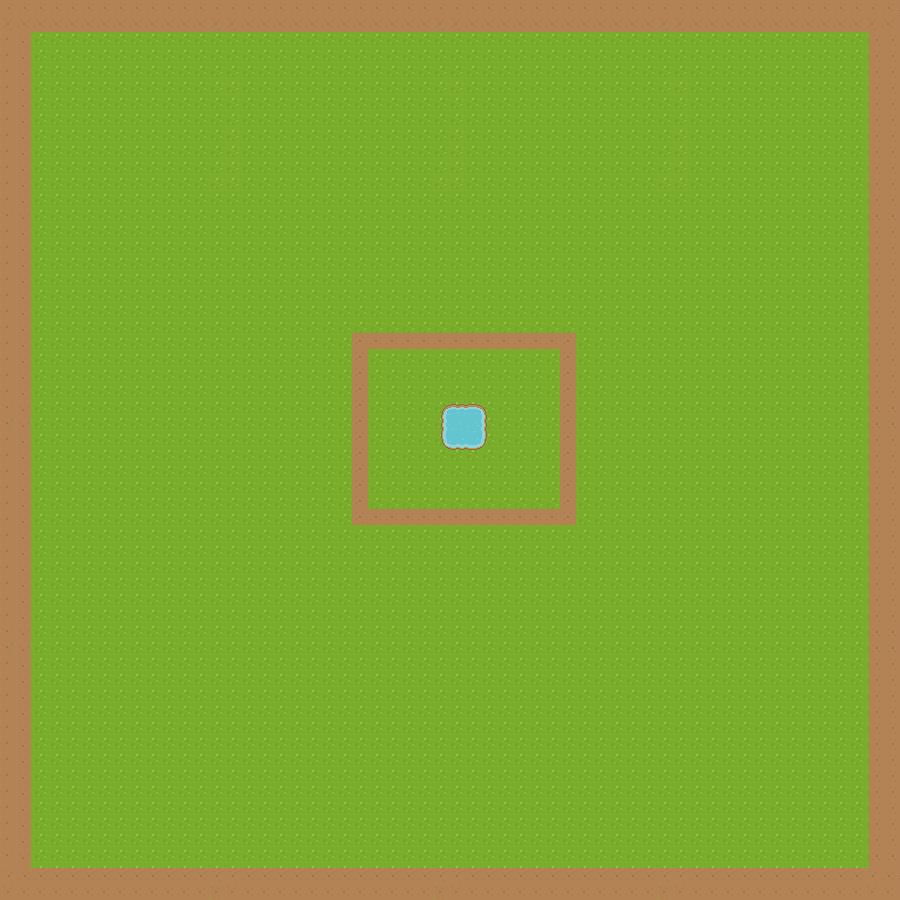
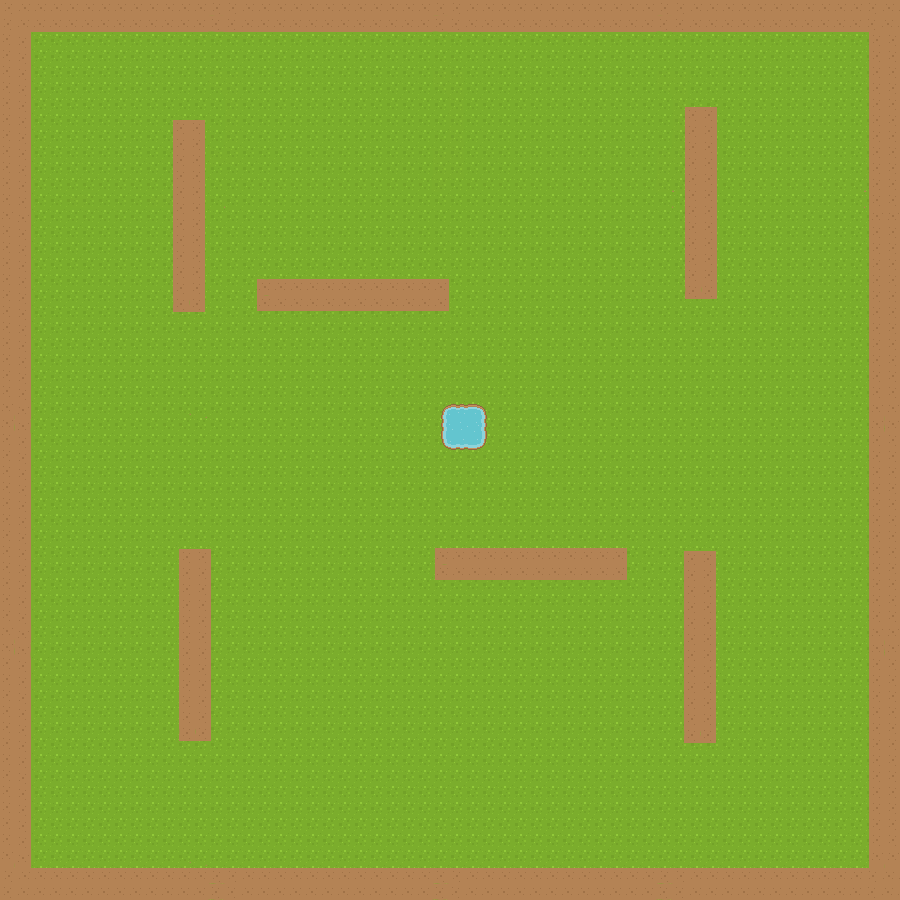
increase bullet speed, fix hotkey saving, update readme

diff --git a/client/js/World.js b/client/js/World.js
@@ -7,6 +7,12 @@ World.data = [
 	['x', ' ', ' ', ' ', ' ', ' ', ' ', ' ', ' ', ' ', ' ', ' ', ' ', ' ', ' ', ' ', ' ', ' ', ' ', ' ', ' ', ' ', ' ', ' ', ' ', ' ', ' ', ' ', ' ', 'x', ],
 	['x', ' ', ' ', ' ', ' ', ' ', ' ', ' ', ' ', ' ', ' ', ' ', ' ', ' ', ' ', ' ', ' ', ' ', ' ', ' ', ' ', ' ', ' ', ' ', ' ', ' ', ' ', ' ', ' ', 'x', ],
 	['x', ' ', ' ', ' ', ' ', ' ', ' ', ' ', ' ', ' ', ' ', ' ', ' ', ' ', ' ', ' ', ' ', ' ', ' ', ' ', ' ', ' ', ' ', ' ', ' ', ' ', ' ', ' ', ' ', 'x', ],
+	['x', ' ', ' ', ' ', ' ', ' ', 'x', ' ', ' ', ' ', ' ', ' ', ' ', ' ', ' ', ' ', ' ', ' ', ' ', ' ', ' ', ' ', ' ', 'x', ' ', ' ', ' ', ' ', ' ', 'x', ],
+	['x', ' ', ' ', ' ', ' ', ' ', 'x', ' ', ' ', ' ', ' ', ' ', ' ', ' ', ' ', ' ', ' ', ' ', ' ', ' ', ' ', ' ', ' ', 'x', ' ', ' ', ' ', ' ', ' ', 'x', ],
+	['x', ' ', ' ', ' ', ' ', ' ', 'x', ' ', ' ', ' ', ' ', ' ', ' ', ' ', ' ', ' ', ' ', ' ', ' ', ' ', ' ', ' ', ' ', 'x', ' ', ' ', ' ', ' ', ' ', 'x', ],
+	['x', ' ', ' ', ' ', ' ', ' ', 'x', ' ', ' ', ' ', ' ', ' ', ' ', ' ', ' ', ' ', ' ', ' ', ' ', ' ', ' ', ' ', ' ', 'x', ' ', ' ', ' ', ' ', ' ', 'x', ],
+	['x', ' ', ' ', ' ', ' ', ' ', 'x', ' ', ' ', ' ', ' ', ' ', ' ', ' ', ' ', ' ', ' ', ' ', ' ', ' ', ' ', ' ', ' ', 'x', ' ', ' ', ' ', ' ', ' ', 'x', ],
+	['x', ' ', ' ', ' ', ' ', ' ', 'x', ' ', ' ', 'x', 'x', 'x', 'x', 'x', 'x', ' ', ' ', ' ', ' ', ' ', ' ', ' ', ' ', 'x', ' ', ' ', ' ', ' ', ' ', 'x', ],
 	['x', ' ', ' ', ' ', ' ', ' ', ' ', ' ', ' ', ' ', ' ', ' ', ' ', ' ', ' ', ' ', ' ', ' ', ' ', ' ', ' ', ' ', ' ', ' ', ' ', ' ', ' ', ' ', ' ', 'x', ],
 	['x', ' ', ' ', ' ', ' ', ' ', ' ', ' ', ' ', ' ', ' ', ' ', ' ', ' ', ' ', ' ', ' ', ' ', ' ', ' ', ' ', ' ', ' ', ' ', ' ', ' ', ' ', ' ', ' ', 'x', ],
 	['x', ' ', ' ', ' ', ' ', ' ', ' ', ' ', ' ', ' ', ' ', ' ', ' ', ' ', ' ', ' ', ' ', ' ', ' ', ' ', ' ', ' ', ' ', ' ', ' ', ' ', ' ', ' ', ' ', 'x', ],
@@ -15,19 +21,13 @@ World.data = [
 	['x', ' ', ' ', ' ', ' ', ' ', ' ', ' ', ' ', ' ', ' ', ' ', ' ', ' ', ' ', ' ', ' ', ' ', ' ', ' ', ' ', ' ', ' ', ' ', ' ', ' ', ' ', ' ', ' ', 'x', ],
 	['x', ' ', ' ', ' ', ' ', ' ', ' ', ' ', ' ', ' ', ' ', ' ', ' ', ' ', ' ', ' ', ' ', ' ', ' ', ' ', ' ', ' ', ' ', ' ', ' ', ' ', ' ', ' ', ' ', 'x', ],
 	['x', ' ', ' ', ' ', ' ', ' ', ' ', ' ', ' ', ' ', ' ', ' ', ' ', ' ', ' ', ' ', ' ', ' ', ' ', ' ', ' ', ' ', ' ', ' ', ' ', ' ', ' ', ' ', ' ', 'x', ],
-	['x', ' ', ' ', ' ', ' ', ' ', ' ', ' ', ' ', ' ', ' ', ' ', ' ', ' ', ' ', ' ', ' ', ' ', ' ', ' ', ' ', ' ', ' ', ' ', ' ', ' ', ' ', ' ', ' ', 'x', ],
-	['x', ' ', ' ', ' ', ' ', ' ', ' ', ' ', ' ', ' ', ' ', ' ', ' ', ' ', ' ', ' ', ' ', ' ', ' ', ' ', ' ', ' ', ' ', ' ', ' ', ' ', ' ', ' ', ' ', 'x', ],
-	['x', ' ', ' ', ' ', ' ', ' ', ' ', ' ', ' ', ' ', ' ', ' ', ' ', ' ', ' ', ' ', ' ', ' ', ' ', ' ', ' ', ' ', ' ', ' ', ' ', ' ', ' ', ' ', ' ', 'x', ],
-	['x', ' ', ' ', ' ', ' ', ' ', ' ', ' ', ' ', ' ', ' ', ' ', ' ', ' ', ' ', ' ', ' ', ' ', ' ', ' ', ' ', ' ', ' ', ' ', ' ', ' ', ' ', ' ', ' ', 'x', ],
-	['x', ' ', ' ', ' ', ' ', ' ', ' ', ' ', ' ', ' ', ' ', ' ', ' ', ' ', ' ', ' ', ' ', ' ', ' ', ' ', ' ', ' ', ' ', ' ', ' ', ' ', ' ', ' ', ' ', 'x', ],
-	['x', ' ', ' ', ' ', ' ', ' ', ' ', ' ', ' ', ' ', ' ', ' ', ' ', ' ', ' ', ' ', ' ', ' ', ' ', ' ', ' ', ' ', ' ', ' ', ' ', ' ', ' ', ' ', ' ', 'x', ],
-	['x', ' ', ' ', ' ', ' ', ' ', ' ', ' ', ' ', ' ', ' ', ' ', ' ', ' ', ' ', ' ', ' ', ' ', ' ', ' ', ' ', ' ', ' ', ' ', ' ', ' ', ' ', ' ', ' ', 'x', ],
-	['x', ' ', ' ', ' ', ' ', ' ', ' ', ' ', ' ', ' ', ' ', ' ', ' ', ' ', ' ', ' ', ' ', ' ', ' ', ' ', ' ', ' ', ' ', ' ', ' ', ' ', ' ', ' ', ' ', 'x', ],
-	['x', ' ', ' ', ' ', ' ', ' ', ' ', ' ', ' ', ' ', ' ', ' ', ' ', ' ', ' ', ' ', ' ', ' ', ' ', ' ', ' ', ' ', ' ', ' ', ' ', ' ', ' ', ' ', ' ', 'x', ],
-	['x', ' ', ' ', ' ', ' ', ' ', ' ', ' ', ' ', ' ', ' ', ' ', ' ', ' ', ' ', ' ', ' ', ' ', ' ', ' ', ' ', ' ', ' ', ' ', ' ', ' ', ' ', ' ', ' ', 'x', ],
-	['x', ' ', ' ', ' ', ' ', ' ', ' ', ' ', ' ', ' ', ' ', ' ', ' ', ' ', ' ', ' ', ' ', ' ', ' ', ' ', ' ', ' ', ' ', ' ', ' ', ' ', ' ', ' ', ' ', 'x', ],
-	['x', ' ', ' ', ' ', ' ', ' ', ' ', ' ', ' ', ' ', ' ', ' ', ' ', ' ', ' ', ' ', ' ', ' ', ' ', ' ', ' ', ' ', ' ', ' ', ' ', ' ', ' ', ' ', ' ', 'x', ],
-	['x', ' ', ' ', ' ', ' ', ' ', ' ', ' ', ' ', ' ', ' ', ' ', ' ', ' ', ' ', ' ', ' ', ' ', ' ', ' ', ' ', ' ', ' ', ' ', ' ', ' ', ' ', ' ', ' ', 'x', ],
+	['x', ' ', ' ', ' ', ' ', ' ', 'x', ' ', ' ', ' ', ' ', ' ', ' ', ' ', ' ', 'x', 'x', 'x', 'x', 'x', 'x', ' ', ' ', ' ', ' ', ' ', ' ', ' ', ' ', 'x', ],
+	['x', ' ', ' ', ' ', ' ', ' ', 'x', ' ', ' ', ' ', ' ', ' ', ' ', ' ', ' ', ' ', ' ', ' ', ' ', ' ', ' ', ' ', ' ', 'x', ' ', ' ', ' ', ' ', ' ', 'x', ],
+	['x', ' ', ' ', ' ', ' ', ' ', 'x', ' ', ' ', ' ', ' ', ' ', ' ', ' ', ' ', ' ', ' ', ' ', ' ', ' ', ' ', ' ', ' ', 'x', ' ', ' ', ' ', ' ', ' ', 'x', ],
+	['x', ' ', ' ', ' ', ' ', ' ', 'x', ' ', ' ', ' ', ' ', ' ', ' ', ' ', ' ', ' ', ' ', ' ', ' ', ' ', ' ', ' ', ' ', 'x', ' ', ' ', ' ', ' ', ' ', 'x', ],
+	['x', ' ', ' ', ' ', ' ', ' ', 'x', ' ', ' ', ' ', ' ', ' ', ' ', ' ', ' ', ' ', ' ', ' ', ' ', ' ', ' ', ' ', ' ', 'x', ' ', ' ', ' ', ' ', ' ', 'x', ],
+	['x', ' ', ' ', ' ', ' ', ' ', 'x', ' ', ' ', ' ', ' ', ' ', ' ', ' ', ' ', ' ', ' ', ' ', ' ', ' ', ' ', ' ', ' ', 'x', ' ', ' ', ' ', ' ', ' ', 'x', ],
+	['x', ' ', ' ', ' ', ' ', ' ', 'x', ' ', ' ', ' ', ' ', ' ', ' ', ' ', ' ', ' ', ' ', ' ', ' ', ' ', ' ', ' ', ' ', 'x', ' ', ' ', ' ', ' ', ' ', 'x', ],
 	['x', ' ', ' ', ' ', ' ', ' ', ' ', ' ', ' ', ' ', ' ', ' ', ' ', ' ', ' ', ' ', ' ', ' ', ' ', ' ', ' ', ' ', ' ', ' ', ' ', ' ', ' ', ' ', ' ', 'x', ],
 	['x', ' ', ' ', ' ', ' ', ' ', ' ', ' ', ' ', ' ', ' ', ' ', ' ', ' ', ' ', ' ', ' ', ' ', ' ', ' ', ' ', ' ', ' ', ' ', ' ', ' ', ' ', ' ', ' ', 'x', ],
 	['x', ' ', ' ', ' ', ' ', ' ', ' ', ' ', ' ', ' ', ' ', ' ', ' ', ' ', ' ', ' ', ' ', ' ', ' ', ' ', ' ', ' ', ' ', ' ', ' ', ' ', ' ', ' ', ' ', 'x', ],

diff --git a/server/Entity.js b/server/Entity.js
@@ -88,6 +88,7 @@ Player = function(data) {
 	self.health = 100;
 	self.maxHealth = 100;
 	self.score = 0;
+	self.coolDown = 0;
 	self.inventory = new Inventory(data.playerData.items, data.socket, true);
 
 	// self.inventory.addItem('potion', 10);
@@ -98,7 +99,10 @@ Player = function(data) {
 		self.updateDirection();
 		_update();
 
-		if (self.leftClickPressed) {
+		if (self.coolDown > 0) {
+			self.coolDown--;
+		} else if (self.leftClickPressed) {
+			self.coolDown = 6;
 			self.shootProjectile(self.mousePos);
 		}
 	}
@@ -233,7 +237,7 @@ Player.onConnection = function(socket, user, playerData) {
 	// listen for hotkey updates
 	socket.on('hotkey_update', (data) => {
 		data.user = Player.list[socket.id].user;
-		Database.updateHotkeys(data, () => {});
+		Database.updateHotkeys(data);
 	});
 
 	var players = [];
@@ -284,8 +288,8 @@ Player.update = function() {
 Projectile = function(data) {
 	var self = Entity(data);
 	self.id = Math.random();
-	self.speedX = Math.cos(data.angle / 180 * Math.PI) * 10;
-	self.speedY = Math.sin(data.angle / 180 * Math.PI) * 10;
+	self.speedX = Math.cos(data.angle / 180 * Math.PI) * 20;
+	self.speedY = Math.sin(data.angle / 180 * Math.PI) * 20;
 	self.angle = data.angle;
 	self.owner = data.owner;
 

diff --git a/app.js b/app.js
@@ -14,10 +14,10 @@ app.get('/', function(req, res) {
 
 app.use('/client', express.static(__dirname + '/client'));
 
-serv.listen(3000);
+serv.listen(2000);
 console.log('Server started.');
 
-var DEBUG = true;
+var DEBUG = false;
 SOCKETS = {};
 
 // CONNECTIONS -------------------------------

diff --git a/README.md b/README.md
@@ -1,5 +1,7 @@
 # NodeJS multiplayer game using express and socket.io!
 
+[Demo](https://youtu.be/EP56PlGg7rw)
+
 Dependencies
 
 	- express
